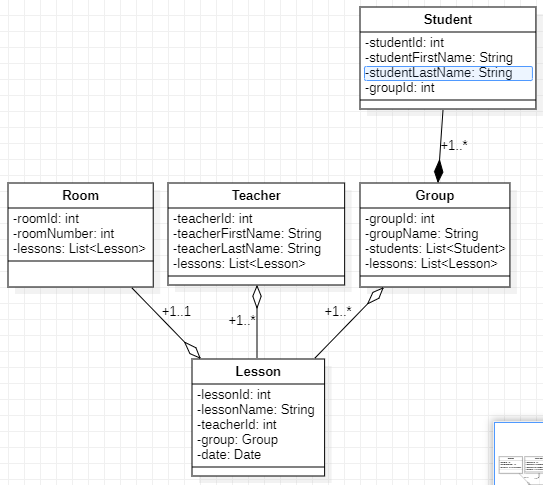
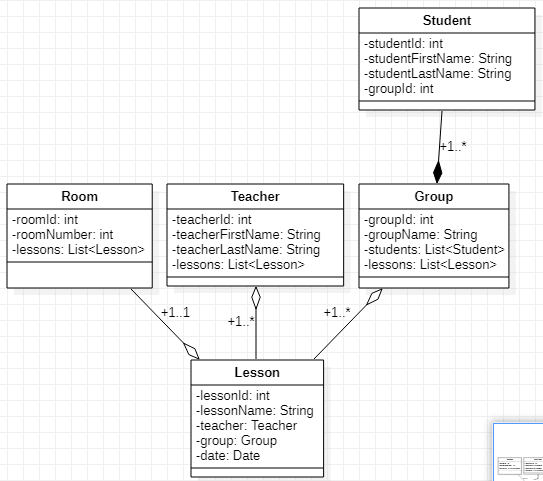
Changed a Lesson field "int teacherId" to "Teacher teacher". Changed UML

Changed region(s): [[0.0, 0.0, 1.0, 0.9979], [0.884, 0.842, 1.0, 1.0]]

diff --git a/University/src/main/java/ua/com/foxminded/university/models/Lesson.java b/University/src/main/java/ua/com/foxminded/university/models/Lesson.java
@@ -5,35 +5,31 @@ import java.util.Date;
 public class Lesson {
     private int lessonId;
     private String lessonName;
-    private int teacherId;
+    private Teacher teacher;
     private Group group;
     private Date date;
     
-    public Lesson(int lessonId, String lessonName, int teacherId, Group group, Date date) {
+    public Lesson(int lessonId, String lessonName, Teacher teacher, Group group, Date date) {
         super();
         this.lessonId = lessonId;
         this.lessonName = lessonName;
-        this.teacherId = teacherId;
+        this.teacher = teacher;
         this.group = group;
         this.date = date;
     }
-
+    
     public int getLessonId() {
         return lessonId;
     }
-
     public String getLessonName() {
         return lessonName;
     }
-
-    public int getTeacherId() {
-        return teacherId;
+    public Teacher getTeacher() {
+        return teacher;
     }
-
     public Group getGroup() {
         return group;
     }
-
     public Date getDate() {
         return date;
     }
@@ -45,7 +41,7 @@ public class Lesson {
         result = prime * result + ((group == null) ? 0 : group.hashCode());
         result = prime * result + lessonId;
         result = prime * result + ((lessonName == null) ? 0 : lessonName.hashCode());
-        result = prime * result + teacherId;
+        result = prime * result + ((teacher == null) ? 0 : teacher.hashCode());
         return result;
     }
 
@@ -74,13 +70,16 @@ public class Lesson {
                 return false;
         } else if (!lessonName.equals(other.lessonName))
             return false;
-        if (teacherId != other.teacherId)
+        if (teacher == null) {
+            if (other.teacher != null)
+                return false;
+        } else if (!teacher.equals(other.teacher))
             return false;
         return true;
     }
 
     public String toString() {
-        return "Lesson [lessonId=" + lessonId + ", lessonName=" + lessonName + ", teacherId=" + teacherId + ", group="
+        return "Lesson [lessonId=" + lessonId + ", lessonName=" + lessonName + ", teacher=" + teacher + ", group="
                 + group + ", date=" + date + "]";
-    } 
+    }
 }
